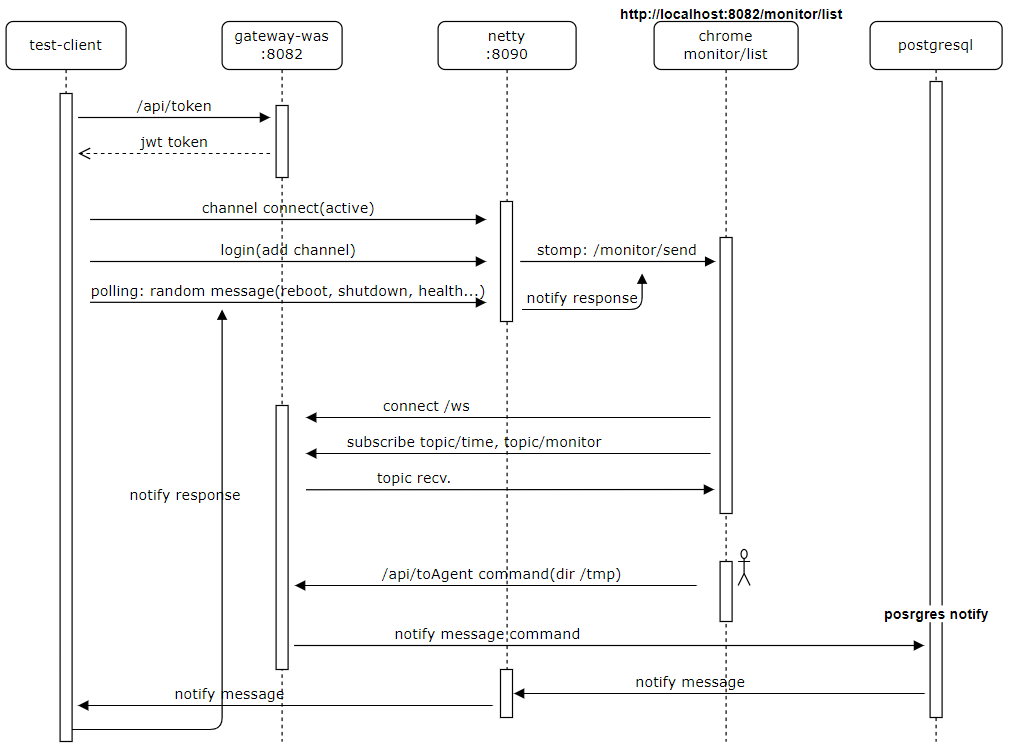
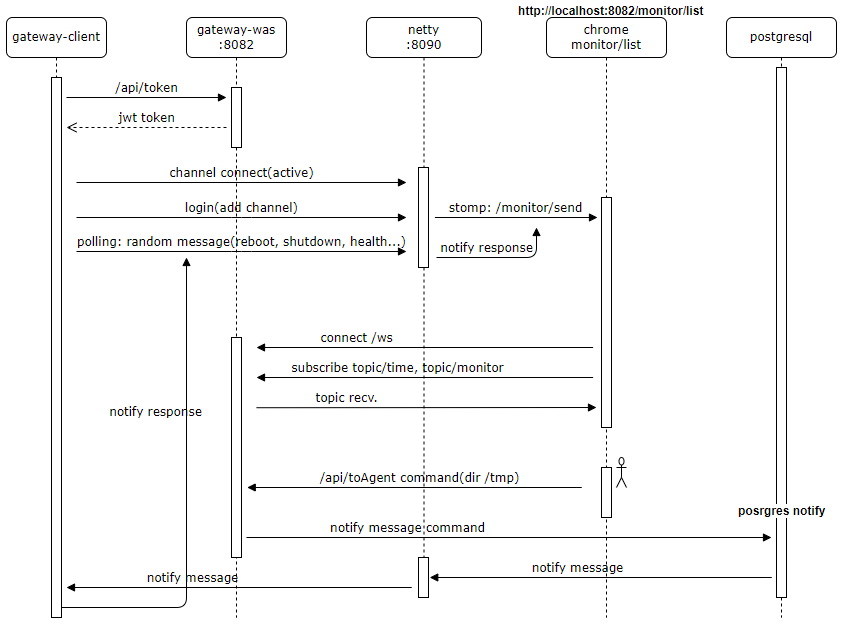
module name 변경

diff --git a/README.md b/README.md
@@ -11,8 +11,7 @@
 ## 워크플로우
 * [workflow.drawio](doc/workflow.drawio)
 
-![img_1.png](doc/workflow.png){width="600px"}
-
+![workflow](doc/workflow.png){width="600px"}
 
 ## connect url
 * http://localhost:8082/swagger-ui/index.html
